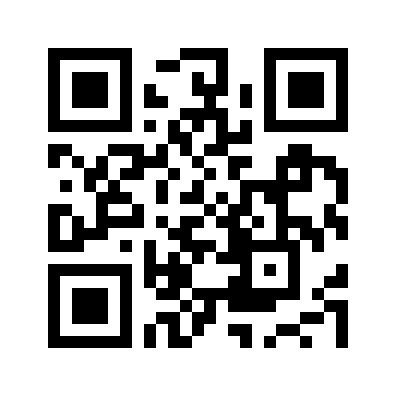
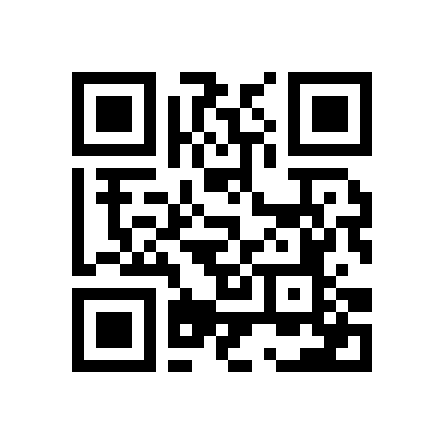
Met à jour le lien et le QR code du mur Digiwall
Claude-Session: https://claude.ai/code/session_017afwA2fnraeKSvUfxrVKkW

diff --git a/epn-jeu-apprentissage/index.html b/epn-jeu-apprentissage/index.html
@@ -8,10 +8,10 @@
 <link rel="preconnect" href="https://fonts.googleapis.com">
 <link rel="preconnect" href="https://fonts.gstatic.com" crossorigin>
 <link href="https://fonts.googleapis.com/css2?family=Atkinson+Hyperlegible:ital,wght@0,400;0,700;1,400&family=Archivo:wght@600;800;900&family=IBM+Plex+Mono:wght@500;600&display=swap" rel="stylesheet">
-<link rel="stylesheet" href="css/theme.css?v=20261115-1635">
-<link rel="stylesheet" href="css/hexagonia.css?v=20261115-1635">
-<link rel="stylesheet" href="css/modules.css?v=20261115-1635">
-<link rel="stylesheet" href="css/plateau.css?v=20261115-1635">
+<link rel="stylesheet" href="css/theme.css?v=20261115-1650">
+<link rel="stylesheet" href="css/hexagonia.css?v=20261115-1650">
+<link rel="stylesheet" href="css/modules.css?v=20261115-1650">
+<link rel="stylesheet" href="css/plateau.css?v=20261115-1650">
 </head>
 <body>
 
@@ -74,19 +74,19 @@
 <div class="lightbox" id="lightbox" hidden><img alt=""><span>Cliquer pour fermer</span></div>
 
 <!-- Moteur -->
-<script src="js/deck.js?v=20261115-1635"></script>
-<script src="js/modeles.js?v=20261115-1635"></script>
+<script src="js/deck.js?v=20261115-1650"></script>
+<script src="js/modeles.js?v=20261115-1650"></script>
 <!-- Modules (l'ordre des fichiers n'a aucune importance : le moteur trie par identifiant) -->
-<script src="modules/m0-accueil.js?v=20261115-1635"></script>
-<script src="modules/m0-timeline.js?v=20261115-1635"></script>
-<script src="modules/m1-escape.js?v=20261115-1635"></script>
-<script src="modules/m2-fondements.js?v=20261115-1635"></script>
-<script src="modules/m3-pico-park.js?v=20261115-1635"></script>
-<script src="modules/hexagonia-commun.js?v=20261115-1635"></script>
-<script src="modules/m4-hexagonia-decouverte.js?v=20261115-1635"></script>
-<script src="modules/m5-hexagonia-atelier.js?v=20261115-1635"></script>
-<script src="modules/m6-atelier-conception.js?v=20261115-1635"></script>
-<script src="modules/m7-synthese.js?v=20261115-1635"></script>
+<script src="modules/m0-accueil.js?v=20261115-1650"></script>
+<script src="modules/m0-timeline.js?v=20261115-1650"></script>
+<script src="modules/m1-escape.js?v=20261115-1650"></script>
+<script src="modules/m2-fondements.js?v=20261115-1650"></script>
+<script src="modules/m3-pico-park.js?v=20261115-1650"></script>
+<script src="modules/hexagonia-commun.js?v=20261115-1650"></script>
+<script src="modules/m4-hexagonia-decouverte.js?v=20261115-1650"></script>
+<script src="modules/m5-hexagonia-atelier.js?v=20261115-1650"></script>
+<script src="modules/m6-atelier-conception.js?v=20261115-1650"></script>
+<script src="modules/m7-synthese.js?v=20261115-1650"></script>
 <script>Deck.start();</script>
 </body>
 </html>

diff --git a/epn-jeu-apprentissage/modules/m0-accueil.js b/epn-jeu-apprentissage/modules/m0-accueil.js
@@ -91,14 +91,14 @@ Deck.slide({
   html:`
   <h2>Toutes les ressources de la journée</h2>
   <div class="res-wall">
-    <div class="card res-qr"><img src="assets/esciences/qr-ressources.png" alt="QR code vers le mur de ressources"><p>Scannez pour ouvrir le mur</p></div>
+    <div class="card res-qr"><img src="assets/esciences/qr-ressources.png?v=2" alt="QR code vers le mur de ressources"><p>Scannez pour ouvrir le mur</p></div>
     <div class="grid" style="gap:16px">
-      <a class="card res-link" href="https://miniurl.be/r-6zpg" target="_blank" rel="noopener"><span class="tag">LIEN COURT</span><b>miniurl.be/r-6zpg</b><span class="small">Le mur Digiwall « Ressources – jeux » avec les fiches, les jeux et les liens de la journée</span></a>
+      <a class="card res-link" href="https://miniurl.be/r-6zpn" target="_blank" rel="noopener"><span class="tag">LIEN COURT</span><b>miniurl.be/r-6zpn</b><span class="small">Le mur Digiwall « EPN – Intégrer le jeu et le jeu vidéo » avec les fiches, les jeux et les liens de la journée</span></a>
       <a class="card res-link" href="https://esciences.github.io/formations/" target="_blank" rel="noopener"><span class="tag">CE SUPPORT EN LIGNE</span><b>esciences.github.io/formations</b><span class="small">Toutes les slides, à revoir après la journée, avec les fiches à imprimer</span></a>
       <a class="card res-link" href="https://www.esciences.be" target="_blank" rel="noopener"><span class="tag">ET AUSSI</span><b>esciences.be</b><span class="small">Mes ressources pédagogiques et d’autres activités</span></a>
     </div>
   </div>`,
-  notes:`<p>Mur Digiwall : https://digiwall.app/w/5966/6bad8/ressources---jeux (le QR code mène au lien court).</p><p>Le support est hébergé sur GitHub Pages : https://esciences.github.io/formations/ (page d’accueil de mes formations, puis « Level Up »).</p>`
+  notes:`<p>Mur Digiwall : https://digiwall.app/w/5976/b2d278/epn---integrer-le-jeu-et-le-jeu-video (le QR code mène au lien court).</p><p>Le support est hébergé sur GitHub Pages : https://esciences.github.io/formations/ (page d’accueil de mes formations, puis « Level Up »).</p>`
 });
 
 Deck.slide({

diff --git a/epn-jeu-apprentissage/modules/m7-synthese.js b/epn-jeu-apprentissage/modules/m7-synthese.js
@@ -73,7 +73,7 @@ Deck.slide({
       <div class="field"><label>📅 Avec qui, et quand ?</label><textarea rows="2" data-store="m7:quand" placeholder="Ex. : avant les vacances de Noël"></textarea></div>
       <div class="hx-btnrow no-print"><button class="btn alt" data-print>🖨 Imprimer</button></div>
     </div>
-    <div class="card res-qr m7-qr"><img src="assets/esciences/qr-ressources.png" alt="QR code du mur de ressources"><p>Toutes les ressources de la journée</p><span class="small">miniurl.be/r-6zpg</span></div>
+    <div class="card res-qr m7-qr"><img src="assets/esciences/qr-ressources.png?v=2" alt="QR code du mur de ressources"><p>Toutes les ressources de la journée</p><span class="small">miniurl.be/r-6zpn</span></div>
   </div>`,
   notes:`<p>Chacun·e écrit son premier pas, puis tour rapide à voix haute (une phrase par personne). Un plan avec une date a bien plus de chances d’aboutir.</p>`
 });
